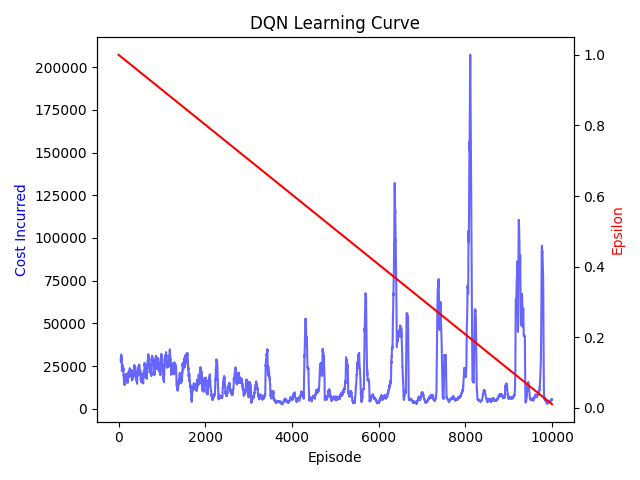
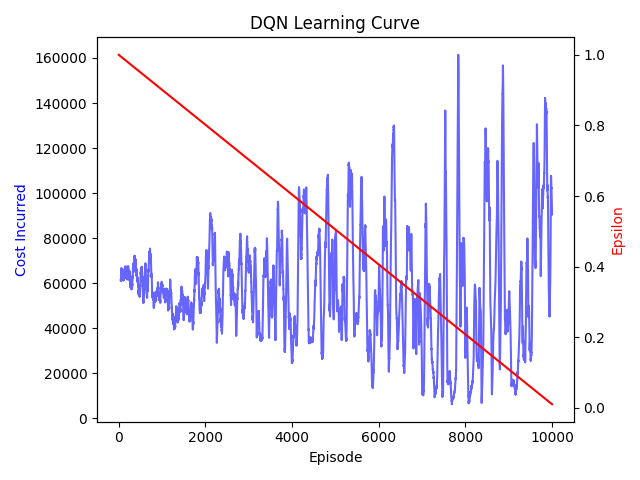
Fix pipeline quantity to include orders

diff --git a/theBeerGame/SupplyChainActor.py b/theBeerGame/SupplyChainActor.py
@@ -81,8 +81,9 @@ class SupplyChainActor:
 
             if base_policy == 'BaseStock':
             #basestock policy
-                self.currentPipeline = self.incomingDeliveriesQueue.QuantityPipline()
-                amountToOrder = self.currentOrders - (self.currentStock + self.currentPipeline)
+                self.currentPipeline = self.incomingDeliveriesQueue.QuantityPipeline() + \
+                                       self.outgoingOrdersQueue.QuantityPipeline()
+                amountToOrder = self.currentOrders - self.currentStock - self.currentPipeline
                 if amountToOrder < 0:
                     amountToOrder = 0
 
@@ -137,7 +138,7 @@ class SupplyChainActor:
         if quantityReceived > 0:
             self.currentStock += quantityReceived
                 
-        thisPipeline = self.incomingDeliveriesQueue.QuantityPipline()
+        thisPipeline = self.incomingDeliveriesQueue.QuantityPipeline()
         self.currentPipeline = thisPipeline
         
         return

diff --git a/MC_Simulator.py b/MC_Simulator.py
@@ -90,6 +90,7 @@ for i_episode in tqdm(range(num_episodes)):
         myRetailer.TakeTurn(thisWeek)
 
         # Wholesaler takes turn
+        pre_turn_orders = myWholesaler.currentOrders
         myWholesaler.UpdatePreTurn()
 
         # Store pre-turn state
@@ -107,10 +108,10 @@ for i_episode in tqdm(range(num_episodes)):
                        myWholesaler.currentOrders, myWholesaler.currentPipeline))
 
         # Calculate reward
-        orders_fulfilled = state[2] - state_[2]
+        orders_fulfilled = pre_turn_orders - state_[3]
         stock_penalty = myWholesaler.currentStock * STORAGE_COST_PER_UNIT
         backorder_penalty = myWholesaler.currentOrders * BACKORDER_PENALTY_COST_PER_UNIT
-        reward = orders_fulfilled - stock_penalty - 2 * backorder_penalty
+        reward = orders_fulfilled - stock_penalty - backorder_penalty
 
         # Store event
         agent.remember(state, action, reward)

diff --git a/DQN_Test.py b/DQN_Test.py
@@ -100,6 +100,7 @@ for thisWeek in range(WEEKS_TO_PLAY):
     currentPipeline.append(myWholesaler.currentPipeline)
 
     # Take action
+    pre_turn_orders = myWholesaler.currentOrders
     myWholesaler.TakeTurn(thisWeek, action)
 
     # Record post-turn state
@@ -107,8 +108,10 @@ for thisWeek in range(WEEKS_TO_PLAY):
                   myWholesaler.currentOrders, myWholesaler.currentPipeline))
 
     # calculate reward
-    orders_fulfilled = state[2] - state_[2]
-    reward = orders_fulfilled - myWholesaler.CalcCostForTurn()
+    orders_fulfilled = pre_turn_orders - state_[3]
+    stock_penalty = myWholesaler.currentStock * STORAGE_COST_PER_UNIT
+    backorder_penalty = myWholesaler.currentOrders * BACKORDER_PENALTY_COST_PER_UNIT
+    reward = orders_fulfilled - stock_penalty - backorder_penalty
     done = 1 if thisWeek == WEEKS_TO_PLAY - 1 else 0
 
     # Record stats

diff --git a/MC_Test.py b/MC_Test.py
@@ -100,6 +100,7 @@ for thisWeek in range(WEEKS_TO_PLAY):
     currentPipeline.append(myWholesaler.currentPipeline)
 
     # Take action
+    pre_turn_orders = myWholesaler.currentOrders
     myWholesaler.TakeTurn(thisWeek, action)
 
     # Store post-turn state
@@ -110,7 +111,7 @@ for thisWeek in range(WEEKS_TO_PLAY):
     orders_fulfilled = state[2] - state_[2]
     stock_penalty = myWholesaler.currentStock * STORAGE_COST_PER_UNIT
     backorder_penalty = myWholesaler.currentOrders * BACKORDER_PENALTY_COST_PER_UNIT
-    reward = orders_fulfilled - stock_penalty - 2 * backorder_penalty
+    reward = orders_fulfilled - stock_penalty - backorder_penalty
     done = 1 if thisWeek == WEEKS_TO_PLAY - 1 else 0
 
     # record stats

diff --git a/DQN_Simulator.py b/DQN_Simulator.py
@@ -108,7 +108,9 @@ for i_episode in tqdm(range(num_episodes)):
 
         # Calculate reward
         orders_fulfilled = pre_turn_orders - state_[3]
-        reward = orders_fulfilled - myWholesaler.CalcCostForTurn()
+        stock_penalty = myWholesaler.currentStock * STORAGE_COST_PER_UNIT
+        backorder_penalty = myWholesaler.currentOrders * BACKORDER_PENALTY_COST_PER_UNIT
+        reward = orders_fulfilled - stock_penalty - backorder_penalty
         done = 1 if thisWeek == WEEKS_TO_PLAY - 1 else 0
 
         agent.remember(state, action, reward, state_, done)

diff --git a/theBeerGame/Settings.py b/theBeerGame/Settings.py
@@ -33,8 +33,8 @@ INITIAL_CURRENT_PIPELINE = 0
 CUSTOMER_INITIAL_ORDERS = 4
 CUSTOMER_SUBSEQUENT_ORDERS = 8 #used in fixed policy
 
-CUSTOMER_MINIMUM_ORDERS = 0
-CUSTOMER_MAXIMUM_ORDERS = 30
+CUSTOMER_MINIMUM_ORDERS = 20
+CUSTOMER_MAXIMUM_ORDERS = 21
 
 TARGET_STOCK = 12
 

diff --git a/theBeerGame/SupplyChainQueue.py b/theBeerGame/SupplyChainQueue.py
@@ -83,7 +83,7 @@ class SupplyChainQueue():
         return quantityDelivered
 
 
-    def QuantityPipline(self):
+    def QuantityPipeline(self):
         """
         -------------------------------------------------------
         Returns the beer order in the queue.
